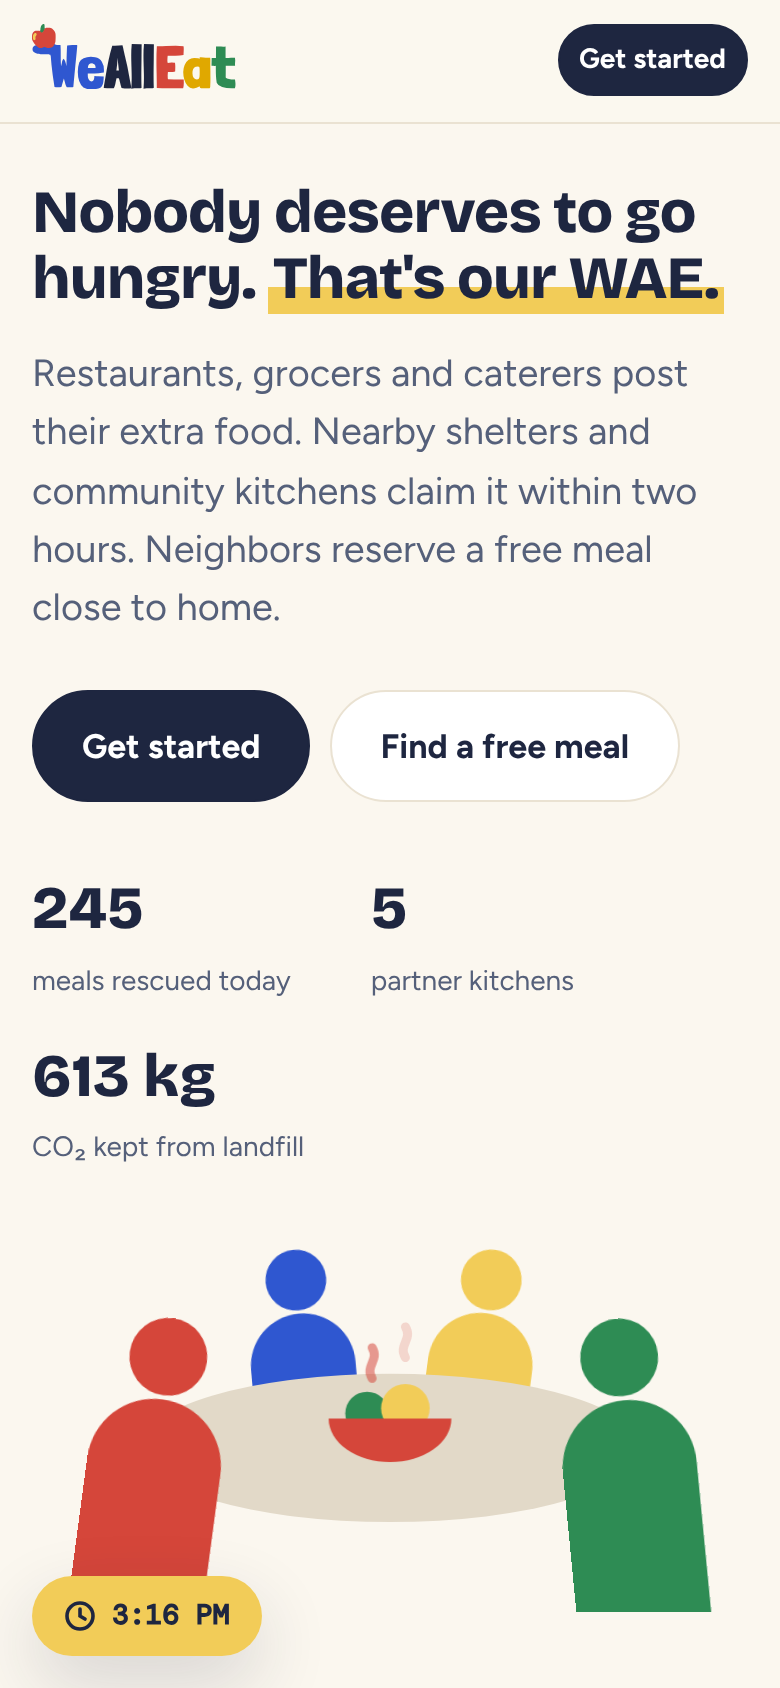
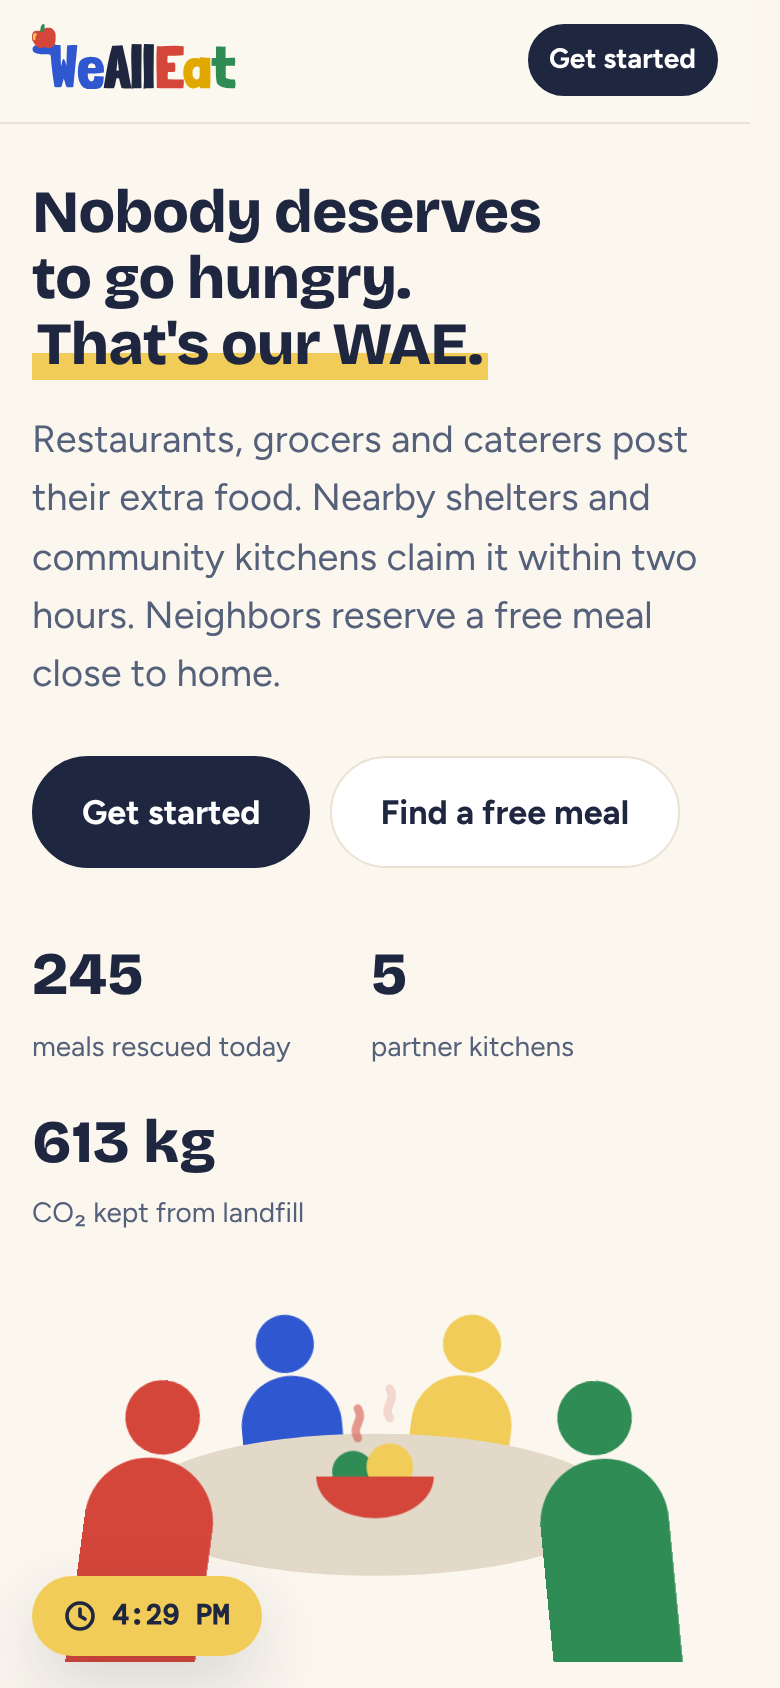
Add files via upload
updated readme +screenshots

diff --git a/index.html b/index.html
@@ -3,7 +3,9 @@
 <head>
 <meta charset="utf-8">
 <title>WeAllEat</title>
+<!-- Sends visitors of the GitHub Pages site to the app in src/web/ -->
 <meta http-equiv="refresh" content="0; url=src/web/">
+<link rel="canonical" href="src/web/">
 </head>
 <body>
 <p><a href="src/web/">Open WeAllEat</a></p>

diff --git a/README.md b/README.md
@@ -4,7 +4,8 @@
 
 WeAllEat connects businesses that have extra food (restaurants, grocers, caterers, campus dining) with nearby shelters and community kitchens that can use it right away, and lets neighbors reserve a free meal close to home.
 
-**UN SDG:** 1 – No Poverty *(confirm against your team email)*
+**UN SDG:** 1 – No Poverty
+**Team:** HarvestRelay
 **Program:** Mentor Me Collective × Google Cloud Launchpad, BUILD 2026
 
 ---
@@ -51,7 +52,9 @@ The prototype runs entirely in the browser with sample data: 5 donors, 5 kitchen
 
 ## Run it
 
-No install needed:
+**Live demo:** https://misterkimchi.github.io/wealleat/ *(once GitHub Pages is turned on)*
+
+Or run it locally with no install:
 
 1. Download or clone this repo.
 2. Open `src/web/index.html` in any browser.
@@ -70,14 +73,16 @@ API keys live in server-side secrets only. Never commit them. See `.env.example`
 
 ## Team
 
-| Name | Track | Focus |
-|---|---|---|
-| Chad Kim | | Matching rules and app architecture |
-| Scott Li | | Security, PINs and sign-in |
-| Gerson Boch | | Infrastructure and timers (holds, expiry) |
-| Babafemi Ajetunmobi | | AI and user experience |
+**Team HarvestRelay**
 
-*(Fill in each person's GCLP track and their individual contributions.)*
+| Name | GCLP track | Focus |
+|---|---|---|
+| Babafemi Ajetunmobi (Lead) | AI Cloud Leader | Workflow, product direction and the NVIDIA feature |
+| Chad Kim | Cloud Cybersecurity | Matching rules, prototype and app architecture |
+| Scott Li | Cloud Cybersecurity | Security testing, sign-in and PIN checks |
+| Gerson Boch | Cloud Engineering | Cloud services, deployment and reliability (timers, expiry) |
+
+*(Add each person's individual contributions as the project goes.)*
 
 ## Links
 
